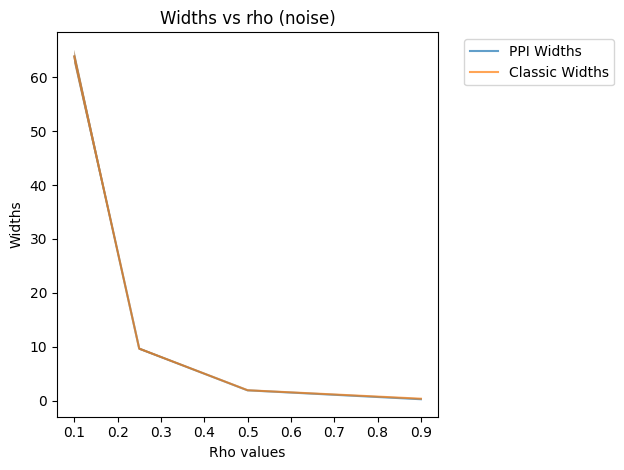
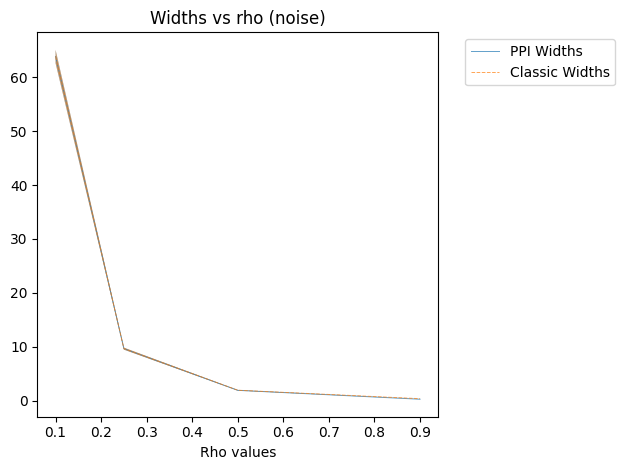
Updated and fixed plotting functions

diff --git a/src/plotting.py b/src/plotting.py
@@ -4,7 +4,7 @@ import yaml
 import os
 import numpy as np
 
-def line_plot(data, plot_config, config, x=None):
+def line_plot(data, plot_config, config, x_lab=None):
     """
     summary:
     plot a line plot
@@ -18,33 +18,31 @@ def line_plot(data, plot_config, config, x=None):
     """
     style_ordering = ['-', '--', '-.', ':']
     style_num = 0
-    if x:
-        for y in plot_config['y']:
-            plt.plot(x, data[y], label=plot_config['y'][y]['label'])
-    else:
-        x = plot_config['x']
-        for tech in plot_config['y_techniques']:
-            # create a df with only the data for the technique
-            tech_data = data[data['technique'] == tech['technique']]
-            x_values = config['experiment']['ind_var']['vals']
-            ind_var = config['experiment']['ind_var']['name']
-            y_means = []
-            y_lower_percentiles = []
-            y_upper_percentiles = []
-            for x_val in x_values:
-                y_series = tech_data.loc[tech_data[ind_var] == x_val, plot_config['y_metric']]
-                y_means.append(np.mean(y_series))
-                y_lower_percentiles.append(np.percentile(y_series, 10))
-                y_upper_percentiles.append(np.percentile(y_series, 90))
-            plt.plot(x_values, y_means, label=tech['label'], alpha=0.7, lw=0.7, linestyle=style_ordering[style_num % 4])
-            plt.fill_between(x_values, y_lower_percentiles, y_upper_percentiles, alpha=0.5)
-            style_num += 1
+    x = plot_config.get('x', None)
+    if x_lab:
+        x = x_lab
+    for tech in plot_config['y_techniques']:
+        # create a df with only the data for the technique
+        tech_data = data[data['technique'] == tech['technique']]
+        x_values = config['experiment']['ind_var']['vals']
+        ind_var = config['experiment']['ind_var']['name']
+        y_means = []
+        y_lower_percentiles = []
+        y_upper_percentiles = []
+        for x_val in x_values:
+            y_series = tech_data.loc[tech_data[ind_var] == x_val, plot_config['y_metric']]
+            y_means.append(np.mean(y_series))
+            y_lower_percentiles.append(np.percentile(y_series, 10))
+            y_upper_percentiles.append(np.percentile(y_series, 90))
+        plt.plot(x_values, y_means, label=tech['label'], alpha=0.7, lw=0.7, linestyle=style_ordering[style_num % 4])
+        plt.fill_between(x_values, y_lower_percentiles, y_upper_percentiles, alpha=0.5)
+        style_num += 1
 
 
     # Add labels and title
-    plt.xlabel(plot_config['x_label'])
-    plt.ylabel(plot_config['y_label'])
-    plt.title(plot_config['title'])
+    plt.xlabel(plot_config.get('x_label', ''))
+    plt.title(plot_config.get('title', ''))
+    plt.title(plot_config.get('title', ''))
     plt.legend(bbox_to_anchor=(1.05, 1), loc='upper left')
     plt.tight_layout()  # Adjusts the spacing to prevent legend cutoff
 
@@ -71,16 +69,16 @@ def coverage_plot(data, plot_config, config):
         ind_var = config['experiment']['ind_var']['name']
         y_means = []
         for x_val in x_values:
-            y_series = tech_data.loc[tech_data[ind_var] == x_val, plot_config['empirical_coverage']]
+            y_series = tech_data.loc[tech_data[ind_var] == x_val, 'empirical_coverage']
             y_means.append(np.mean(y_series))
         plt.plot(x_values, y_means, label=tech['label'], alpha=0.7, linestyle=style_ordering[style_num % 4])
         style_num += 1
     plt.plot(x_values, [config['experiment']['parameters']['confidence_level']] * len(x_values), color='black')
 
     # Add labels and title
-    plt.xlabel(plot_config['x_label'])
-    plt.ylabel(plot_config['y_label'])
-    plt.title(plot_config['title'])
+    plt.xlabel(plot_config.get('x_label', ''))
+    plt.ylabel('Empirical Coverage')
+    plt.title(plot_config.get('title', ''))
     plt.legend(bbox_to_anchor=(1.05, 1), loc='upper left')
     plt.tight_layout()  # Adjusts the spacing to prevent legend cutoff
 
@@ -97,33 +95,38 @@ def sample_plot(data, plot_config, config):
     """
     Take 5 samples from each method, graph their confidence intervals
     """
-    colour_ordering = ['b', 'g', 'r', 'c', 'm', 'y', 'k']
+    # ignorematplotlib warnings
+    plt.rcParams.update({'figure.max_open_warning': 0})
+
+
+    colour_ordering = ['b', 'g', 'r', 'c', 'm', 'k']
     colour_num = 0
     method_count = 0
+
+    num_x_vals = len(config['experiment']['ind_var']['vals'])
+    # create a figure with num_x_vals subplots
+    fig, axs = plt.subplots(num_x_vals, 1, figsize=(10, 10))
 
     for tech in plot_config['y_techniques']:
         # create a df with only the data for the technique
         tech_data = data[data['technique'] == tech['technique']]
         x_values = config['experiment']['ind_var']['vals']
         ind_var = config['experiment']['ind_var']['name']
-        for x_val in x_values:
-            y_series = tech_data.loc[tech_data[ind_var] == x_val, [plot_config['ci_lower'], plot_config['ci_upper']]]
+        for id, x_val in enumerate(x_values):
+            y_series = tech_data.loc[tech_data[ind_var] == x_val, ['ci_low', 'ci_high']]
             y_series = y_series.sample(n=5)
             ci_list = [(y_series.iloc[i][0], y_series.iloc[i][1]) for i in range(5)]
             for i in range(5):
-                plt.plot(ci_list[i], ((method_count + i)/5, (method_count + i)/5), 
-                         'ro-', color=colour_ordering[colour_num % 7])
+                axs[id].plot(ci_list[i], ((method_count + i)/5, (method_count + i)/5),
+                             color=colour_ordering[colour_num % len(colour_ordering)])
+                axs[id].axvline(x=config['experiment']['parameters']['true_value'], color='y', linestyle='--')
+                # remove the y axis 
+                axs[id].get_yaxis().set_visible(False)
         method_count += 5
         colour_num += 1
 
-    plt.axvline(x=config['experiment']['parameters']['true_value'], color='blue', linestyle='--')
-    ax = plt.gca()
-    ax.get_yaxis().set_visible(False)
-
-    plt.xlabel(plot_config.get('x_label', ''))
-    plt.title(plot_config.get('title', ''))
-    plt.tight_layout()  # Adjusts the spacing to prevent legend cutoff
-    plt.legend(bbox_to_anchor=(1.05, 1), loc='upper left')
+    
+    fig.suptitle(plot_config.get('title', ''))
 
     plt.savefig(os.path.join(config['paths']['plotting_path'], plot_config['file_name']), bbox_inches='tight')
     
@@ -181,6 +184,7 @@ def violin_plot(data, plot_config, config):
 
     # close the figure
     plt.close()
+    
 
 def plot_results(data, config):
     """

diff --git a/src/ml_models.py b/src/ml_models.py
@@ -93,7 +93,7 @@ def build_xgb_optuna(x, y, model_config):
     model.fit(x, y)
     return model
 
-def train_model(x_train, y_train, model_config):
+def train_model_old(x_train, y_train, model_config):
     """
     Train a model based on the configuration
 
@@ -110,7 +110,45 @@ def train_model(x_train, y_train, model_config):
     elif model_config['name'] == 'decision_tree':
         model = build_fit_dt(x_train, y_train, model_config)
     elif model_config['name'] == 'random_forest':
-        model = build_fit_rf(x_train, y_train, model_config)
+        if model_config.get('optuna', False):
+            model = build_rf_optuna(x_train, y_train, model_config)
+        else:
+            model = build_fit_rf(x_train, y_train, model_config)
+    elif model_config['name'] == 'xgboost':
+        if model_config.get('optuna', False):
+            model = build_xgb_optuna(x_train, y_train, model_config)
+        else:
+            model = build_xgb(x_train, y_train, model_config)
     else:
         raise ValueError("Model not supported")
+    return model
+
+def train_model(x_train, y_train, model_config):
+    """
+    Train a model based on the configuration
+
+    Args:
+    x_train (np.array): training x
+    y_train (np.array): training y
+    model_config (dict): configuration for the model
+
+    Returns:
+    model: trained model
+    """
+    # Mapping of model names to their build functions
+    model_builders = {
+        'linear_regression': build_fit_slr,
+        'decision_tree': build_fit_dt,
+        'random_forest': build_rf_optuna if model_config.get('optuna', False) else build_fit_rf,
+        'xgboost': build_xgb_optuna if model_config.get('optuna', False) else build_xgb,
+    }
+
+    # Get the build function based on the model name
+    build_function = model_builders.get(model_config['name'])
+
+    if build_function:
+        model = build_function(x_train, y_train, model_config)
+    else:
+        raise ValueError("Model not supported")
+
     return model
